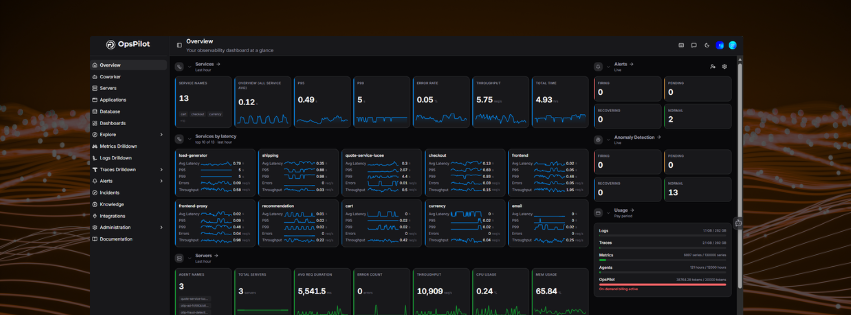
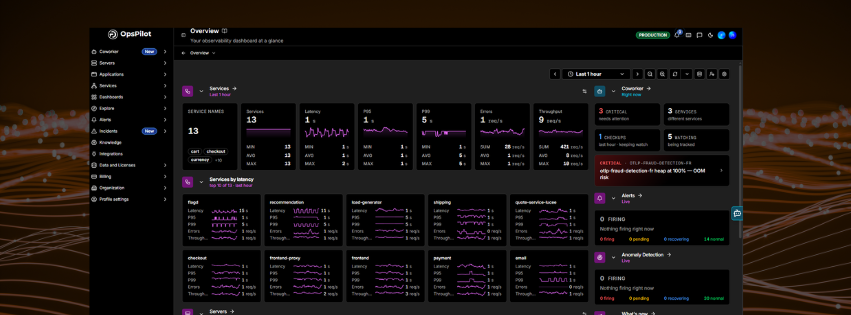
Review Get Started page and update Coworker onboarding and API Keys
index.md (Get Started):
- Rewrite Step 1 to match the real flow (name org, invite colleagues, setup screen)
- Detail the empty Overview prompts, leading with Coworker; add API-key callout to Step 2
- Retitle Step 4 to "Get answers with AI"; drop redundant tip and an em dash; refresh the empty-Overview screenshot

api-keys.md:
- Correct the button label (Generate to Create API Key) and reconcile the create flow (min 3 chars, Active Status, Create submit)
- Add empty-state and create-form screenshots

Coworker getting-started.md:
- Document the new eight-step onboarding: add Alerts and Scheduled tasks steps, renumber the rest, update the intro count, add step screenshots

diff --git a/docs/index.md b/docs/index.md
@@ -2,7 +2,7 @@
 
 ![Get Started with OpsPilot](images/get-started.png)
 
-OpsPilot, formerly FusionReactor Cloud, is an AI-powered observability and AI SRE platform. This guide walks you through creating your account, connecting your first data source, and exploring your initial views — from sign-up to your first insights in minutes.
+OpsPilot, formerly FusionReactor Cloud, is an AI-powered observability and SRE platform. This guide walks you through creating your account, connecting your first data source, and exploring your initial views - from sign-up to your first insights in minutes.
 
 !!! info "Already have an account?"
     [Sign in](https://app.opspilot.com/auth/login) and head to your dashboard to start exploring your data. If you have an invitation, follow the link in your invitation email to access your organization.
@@ -11,24 +11,31 @@ OpsPilot, formerly FusionReactor Cloud, is an AI-powered observability and AI SR
 
 ## Step 1 - Create your account
 
-Navigate to [app.opspilot.com/auth/register](https://app.opspilot.com/auth/register) and sign up. Once signed in, you will be prompted to set up your organization.
+Navigate to [app.opspilot.com/auth/register](https://app.opspilot.com/auth/register) and sign up. You're then guided through a short setup:
 
-!!! tip
-    Once signed in, you are prompted to define the name of your organization before proceeding to the dashboard.
+1. **Name your organization.**
+2. **Invite colleagues** (optional) - add their email addresses to bring your team in, or skip for now.
+3. OpsPilot sets up your account. While you wait, use the **See the instrumentation guide** link to get a head start on [instrumenting your application](#step-2-instrument-your-application).
 
 ### What you'll see first
 
-When you first log in with no data connected, the **Overview** page displays a **Get Started** prompt in each section to guide you through setup.
+When setup finishes, you land on the **Overview** - your observability dashboard. With no data connected yet, each section shows a **Get Started** prompt telling you exactly what to install or configure:
+
+- **[Coworker](/Data-insights/Features/OpsPilot/Coworker/getting-started/)** - set up your AI SRE teammate to investigate alerts and track ongoing situations across the services you care about.
+- **[Servers](/Data-insights/Features/Servers/overview/)** and **[Applications](/Data-insights/Features/applications/)** - install the FusionReactor agent to start monitoring. Your **license key** is shown here, ready to copy.
+- **[Services](/Data-insights/Features/Services/overview/)** - instrument with OpenTelemetry using an **API key**.
+- **[Alerts](/Data-insights/Features/Alerting/Alerts-overview/)** and **[Anomaly Detection](/Data-insights/Features/New-alerting/anomaly-detectors/)** - create alert rules or enable anomaly detection once data is flowing.
 
 ![No Data view](Data-insights/Features/images/New-account-overview.png)
-
-Each section tells you exactly what to install or configure to start seeing data.
 
 ---
 
 ## Step 2 - Instrument your application
 
 Send telemetry from your applications using OpenTelemetry or the [FusionReactor agent](/Data-insights/Features/Integrations/SDKs/fusionreactor/).
+
+!!! info "You'll need an API key"
+    OpenTelemetry data is authenticated with an OpsPilot **API key**. Create one from the [API Keys](/Admin-and-data/api-keys/) page - or click **Create** on the **Services** card on your Overview - then add it to your exporter configuration.
 
 Select your language:
 
@@ -111,7 +118,7 @@ Get metrics, logs, and traces flowing from your infrastructure using **Grafana A
 
 ---
 
-## Step 4 - Query with AI
+## Step 4 - Get answers with AI
 
 Once data is flowing, OpsPilot's AI works in two ways:
 

diff --git a/docs/Data-insights/Features/OpsPilot/Coworker/getting-started.md b/docs/Data-insights/Features/OpsPilot/Coworker/getting-started.md
@@ -2,11 +2,11 @@
 
 ## Onboarding
 
-The more Coworker knows about you and your services, the better it filters the noise. A short six-step setup, shown the first time you open Coworker, tailors it to you. You can skip any step and still get a working Coworker - you'll just see a broader, less tailored view until you set your preferences.
+The more Coworker knows about you and your services, the better it filters the noise. A short eight-step setup, shown the first time you open Coworker, tailors it to you. You can skip any step and still get a working Coworker - you'll just see a broader, less tailored view until you set your preferences.
 
 ### Step 1: Introduction
 
-![!Screenshot](../../../../Coworker/onboarding1.png)
+![!Screenshot](../../../../Coworker/start.png)
 
 Step 1 introduces what Coworker does:
 
@@ -40,7 +40,45 @@ If nothing is cataloged yet, choose how to proceed:
 
 ---
 
-### Step 3: Your role
+### Step 3: Alerts
+
+![!Screenshot](../../../../Coworker/3-alerts.png)
+
+Coworker can watch your alerts and investigate each one the moment it fires:
+
+> *"When one fires, I'll investigate it the way you would - check metrics, sample logs, work out what changed - and post the findings as a situation. You see one clean story, not a stream of alert noise."*
+
+Choose how much to hand over:
+
+- **Watch all** - Coworker investigates every alert that fires.
+- **Let me pick** - choose which alerts Coworker watches.
+
+If no alerts are connected yet, you'll see a note such as *"No Grafana alerts found yet"* - set some up in Grafana, then come back here or wire them in from alerts settings. Click **Continue**, or **Skip for now** to move on.
+
+---
+
+### Step 4: Scheduled tasks
+
+![!Screenshot](../../../../Coworker/4-scheduled.png)
+
+Pick a few background checks for Coworker to run on a cadence:
+
+> *"Scheduled tasks run quietly in the background on a cadence - daily or weekly - and only raise something if it's worth your time. Pick whichever sound useful; you can always adjust them later."*
+
+Select any of the ready-made reports:
+
+| Report | What it covers | Cadence |
+|---|---|---|
+| **Service Uptime Report** | Service availability and downtime incidents | Daily at 9:00 AM UTC |
+| **Error Rates Report** | Error rates and top errors across services | Daily at 9:00 AM UTC |
+| **Resource Usage Report** | CPU, memory, and storage utilization | Weekly on Mondays at 9:00 AM UTC |
+| **Performance Report** | Response times, throughput, and latency | Daily at 10:00 AM UTC |
+
+Click **Continue**, or **None for now** to skip. You can add, edit, or remove scheduled tasks at any time - see [Tasks](tasks.md).
+
+---
+
+### Step 5: Your role
 
 ![!Screenshot](../../../../Coworker/onboarding3.png)
 
@@ -58,7 +96,7 @@ Select **Skip - I'll come back later** to proceed without setting a role.
 
 ---
 
-### Step 4: What do you want me to help with?
+### Step 6: What do you want me to help with?
 
 ![!Screenshot](../../../../Coworker/onboarding4.png)
 
@@ -79,7 +117,7 @@ Click **Continue** when done, or **Skip** to proceed without selecting any.
 
 ---
 
-### Step 5: Which of these matter most to you?
+### Step 7: Which of these matter most to you?
 
 ![!Screenshot](../../../../Coworker/onboarding5.png)
 
@@ -102,7 +140,7 @@ Select as many as apply. These can be updated at any time from **Settings > Pref
 
 ---
 
-### Step 6: Which services are yours?
+### Step 8: Which services are yours?
 
 ![!Screenshot](../../../../Coworker/onboarding6.png)
 

diff --git a/docs/Admin-and-data/api-keys.md b/docs/Admin-and-data/api-keys.md
@@ -2,6 +2,8 @@
 
 The **API Keys** page lets you manage access credentials used by services and agents to communicate with OpsPilot.
 
+![Screenshot](../images/get-started-services.png)
+
 ## Viewing & managing keys
 
 Each listed API key displays:
@@ -19,11 +21,14 @@ Each listed API key displays:
 
 ## Creating a new key
 
-Click **+ Generate** to create a new API key:
+Click **+ Create API Key** to open the create form:
 
-1. Enter a **Name** (required).
+![Screenshot](../images/create-api.png)
+
+1. Enter a **Name** (required, minimum 3 characters).
 2. Enter a **Description** (optional).
-3. Click **Generate** to create the key.
+3. Leave **Active Status** enabled to activate the key immediately, or toggle it off to create it disabled.
+4. Click **Create**.
 
 Copy the key immediately after creation - it will not be shown again in full.
 
